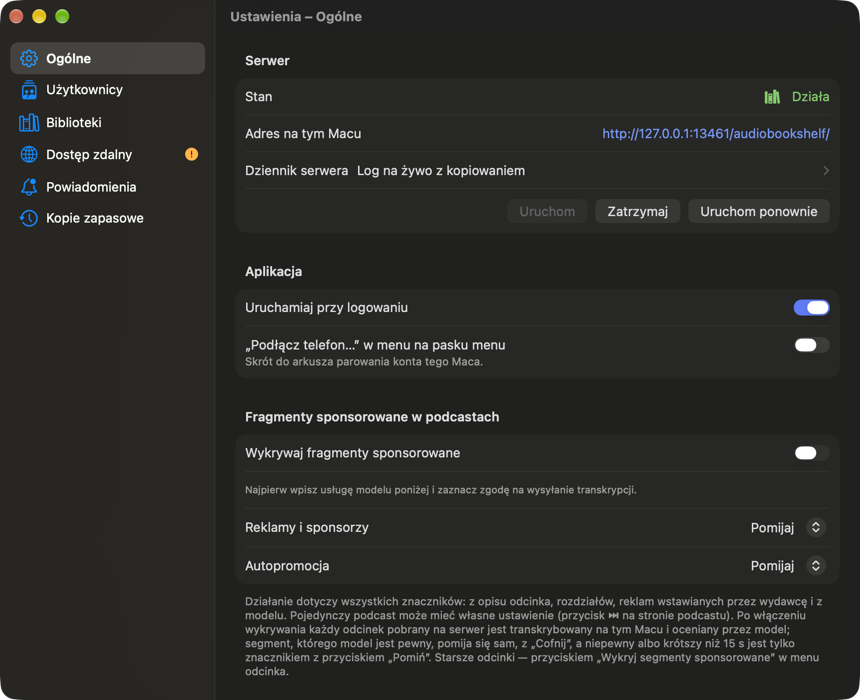
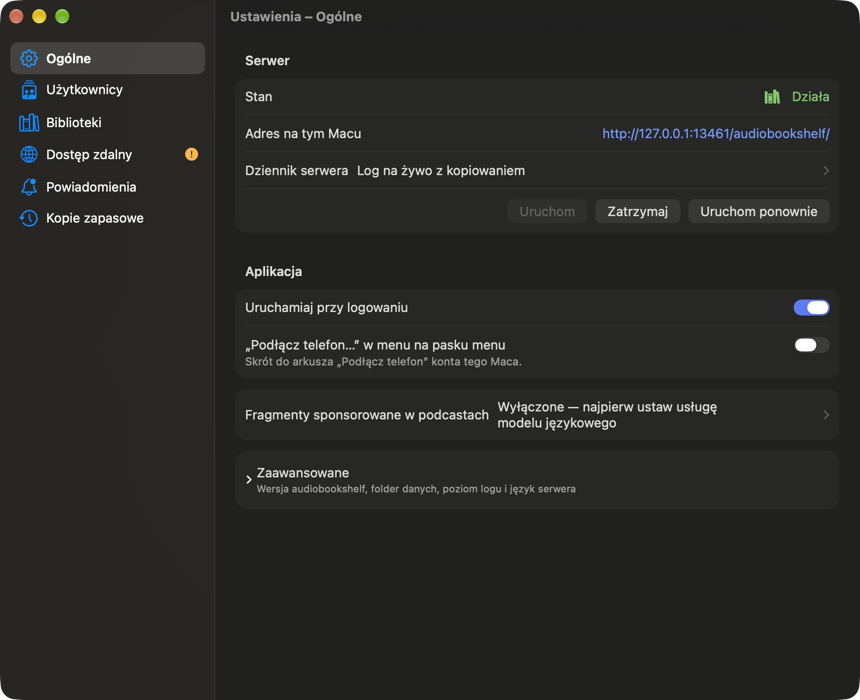
Ustawienia: fragmenty sponsorowane jako podstrona „Ogólnych” i przeciąganie kolejności bibliotek
- „Ogólne” mają wiersz ze stanem wykrywania; sekcje 13b bez zmian w logice na osobnej podstronie
- wiersze „Bibliotek” da się przeciągać na miejsce innej biblioteki (draggable/dropDestination), z linią miejsca upuszczenia
- sprawdzone prawdziwym przeciągnięciem myszą na testowej kopii; część 15 planu, README, ROADMAP, zrzuty

diff --git a/AudiobookSwift/AudiobookSwift/UI/Settings/SettingsPages.swift b/AudiobookSwift/AudiobookSwift/UI/Settings/SettingsPages.swift
@@ -1,7 +1,7 @@
 import AudiobookshelfKit
 import SwiftUI
 
-/// Strona „Biblioteki” (etap 4 planu): lista bibliotek (wiersz → podstrona), dodawanie, polskie źródła i własni dostawcy metadanych, a pod „Zaawansowane” wspólne
+/// Strona „Biblioteki” (etap 4 planu): lista bibliotek (wiersz → podstrona, przeciąganie zmienia kolejność), dodawanie, polskie źródła i własni dostawcy metadanych, a pod „Zaawansowane” wspólne
 /// ustawienia skanera, okładek, zapisu w folderach, sortowania i pamięci podręcznej serwera.
 struct LibrariesSettingsPage: View {
     let models: AppModels
@@ -17,7 +17,7 @@ struct LibrariesSettingsPage: View {
             } header: {
                 Text("Biblioteki na serwerze")
             } footer: {
-                Text("Kliknij bibliotekę, aby zmienić jej ustawienia, harmonogram skanu albo ją usunąć. Kolejność bibliotek (ta sama w oknie „Biblioteka”, w telefonie i w web UI) zmienisz na stronie biblioteki w „Zaawansowane”.")
+                Text("Kliknij bibliotekę, aby zmienić jej ustawienia, harmonogram skanu albo ją usunąć. Kolejność (ta sama w oknie „Biblioteka”, w telefonie i w web UI) zmienisz, przeciągając wiersz na miejsce innej biblioteki, albo przyciskami „Wyżej/Niżej” na stronie biblioteki.")
             }
             Section {
                 MetadataSourcesSection(sources: models.metadataSources)
@@ -70,6 +70,7 @@ private struct LibraryListRows: View {
     @Environment(SettingsNavigation.self) private var navigation
     @Environment(\.openWindow) private var openWindow
     @State private var error: String?
+    @State private var dropTarget: String?
 
     private var account: ServerAccount { models.account }
     private var tasks: LibraryTasks { models.libraryTasks }
@@ -106,6 +107,22 @@ private struct LibraryListRows: View {
         }
         ForEach(account.libraries) { library in
             row(library)
+                // Przeciąganie zmienia kolejność: upuszczona biblioteka zajmuje miejsce tej, na którą ją upuszczono.
+                .draggable(LibraryDrag.payload(library.id)) {
+                    Label(library.name, systemImage: library.mediaType == "podcast" ? "antenna.radiowaves.left.and.right" : "books.vertical")
+                        .padding(6)
+                }
+                .dropDestination(for: String.self) { items, _ in
+                    guard let dragged = items.first.flatMap(LibraryDrag.id(from:)) else { return false }
+                    return move(dragged, to: library.id)
+                } isTargeted: { targeted in
+                    if targeted { dropTarget = library.id } else if dropTarget == library.id { dropTarget = nil }
+                }
+                .overlay(alignment: .top) {
+                    if dropTarget == library.id {
+                        Rectangle().fill(Color.accentColor).frame(height: 2).offset(y: -5)
+                    }
+                }
         }
         if let error {
             Label(error, systemImage: "xmark.octagon")
@@ -181,6 +198,23 @@ private struct LibraryListRows: View {
         return folders.isEmpty ? kind : "\(kind) · \(folders)"
     }
 
+    /// Przenosi bibliotekę `dragged` na miejsce `target` i zapisuje nową kolejność na serwerze.
+    private func move(_ dragged: String, to target: String) -> Bool {
+        var ids = account.libraries.map(\.id)
+        guard dragged != target, let from = ids.firstIndex(of: dragged), let to = ids.firstIndex(of: target) else { return false }
+        ids.remove(at: from)
+        ids.insert(dragged, at: to)
+        error = nil
+        Task {
+            do {
+                try await account.reorderLibraries(ids)
+            } catch {
+                self.error = "Nie udało się zmienić kolejności bibliotek: \(error.localizedDescription)"
+            }
+        }
+        return true
+    }
+
     private func add(_ kind: ServerAccount.LibraryKind) {
         Task {
             guard let folder = await chooseLibraryFolder(for: kind) else { return }
@@ -191,5 +225,15 @@ private struct LibraryListRows: View {
     private func reconnect() {
         guard let environment = models.supervisor.environment, models.supervisor.state == .running else { return }
         Task { await account.connect(environment: environment) }
+    }
+}
+
+/// Przeciągana biblioteka jako tekst z przedrostkiem — upuszczenie zwykłego tekstu (np. z innej
+/// aplikacji) nie zmienia kolejności.
+enum LibraryDrag {
+    static let prefix = "abswift-library:"
+    static func payload(_ id: String) -> String { prefix + id }
+    static func id(from text: String) -> String? {
+        text.hasPrefix(prefix) ? String(text.dropFirst(prefix.count)) : nil
     }
 }

diff --git a/AudiobookSwift/AudiobookSwift/UI/Settings/GeneralSettingsPage.swift b/AudiobookSwift/AudiobookSwift/UI/Settings/GeneralSettingsPage.swift
@@ -1,7 +1,7 @@
 import SwiftUI
 
 /// Ogólne (etap 5 planu): stan i sterowanie serwerem z błędem startu, adres, dziennik serwera (podstrona),
-/// start przy logowaniu, wykrywanie fragmentów sponsorowanych, a pod „Zaawansowane” wersja audiobookshelf,
+/// start przy logowaniu, wiersz do podstrony „Fragmenty sponsorowane”, a pod „Zaawansowane” wersja audiobookshelf,
 /// folder danych, poziom logu i język serwera. Przy błędzie startu aplikacja otwiera tę stronę sama.
 struct GeneralSettingsPage: View {
     let models: AppModels
@@ -15,11 +15,17 @@ struct GeneralSettingsPage: View {
         SettingsForm {
             serverSection
             loginItemSection
-            SponsorDetectionSection(dataRoot: supervisor.dataRoot)
+            Section {
+                NavigationLink(value: SettingsDestination.sponsorDetection) {
+                    Text("Fragmenty sponsorowane w podcastach")
+                    Text(sponsorSummary)
+                }
+            }
             AdvancedSection(summary: "Wersja audiobookshelf, folder danych, poziom logu i język serwera") {
                 advancedRows
             }
         }
+        .onAppear { if let dataRoot = supervisor.dataRoot { SponsorDetectionStore.shared.open(dataRoot: dataRoot) } }
     }
 
     // MARK: Serwer
@@ -54,6 +60,15 @@ struct GeneralSettingsPage: View {
                     .disabled(!supervisor.state.canStop)
             }
         }
+    }
+
+    /// Stan wykrywania w jednym zdaniu (pod wierszem prowadzącym do podstrony).
+    private var sponsorSummary: String {
+        let settings = SponsorDetectionStore.shared.settings
+        if settings.enabled { return "Włączone — usługa modelu ustawiona" }
+        if !settings.isConfigured { return "Wyłączone — najpierw ustaw usługę modelu językowego" }
+        if !settings.hasConsent { return "Wyłączone — brak zgody na wysyłanie transkrypcji" }
+        return "Wyłączone"
     }
 
     // MARK: Zaawansowane

diff --git a/AudiobookSwift/AudiobookSwift/UI/Settings/SettingsWindow.swift b/AudiobookSwift/AudiobookSwift/UI/Settings/SettingsWindow.swift
@@ -123,6 +123,8 @@ enum SettingsDestination: Hashable, Codable {
     case root
     /// Dziennik serwera (Ogólne › Dziennik serwera).
     case serverLog
+    /// Fragmenty sponsorowane w podcastach i usługa modelu językowego (Ogólne › Fragmenty sponsorowane, etap 13b).
+    case sponsorDetection
     /// Historia słuchania (Użytkownicy › „Historia słuchania wszystkich…”, albo jednej osoby z jej profilu).
     case history(userID: String?)
     /// Biblioteka (Biblioteki › biblioteka).
@@ -132,7 +134,7 @@ enum SettingsDestination: Hashable, Codable {
     var page: SettingsPage {
         switch self {
         case .user, .root, .history: .users
-        case .serverLog: .general
+        case .serverLog, .sponsorDetection: .general
         case .library: .libraries
         }
     }
@@ -144,6 +146,9 @@ enum SettingsDestination: Hashable, Codable {
         case .root: RootProfilePage(models: models)
         case .library(let id): LibraryPage(models: models, libraryID: id)
         case .serverLog: ServerLogPage(models: models)
+        case .sponsorDetection:
+            SettingsForm { SponsorDetectionSection(dataRoot: models.supervisor.dataRoot) }
+                .navigationSubtitle("Fragmenty sponsorowane")
         case .history(let userID): ListeningHistoryPage(models: models, userID: userID)
         }
     }

diff --git a/AudiobookSwift/AudiobookSwift/UI/Settings/SettingsTour.swift b/AudiobookSwift/AudiobookSwift/UI/Settings/SettingsTour.swift
@@ -70,7 +70,7 @@ enum SettingsTour {
         if models.account.state == .ready, !models.users.hasLoaded { await models.users.load() }
         return models.users.people.map { .user(id: $0.id) } + [.root, .history(userID: nil)]
             + models.users.people.prefix(1).map { .history(userID: $0.id) }
-            + models.account.libraries.map { .library(id: $0.id) } + [.serverLog]
+            + models.account.libraries.map { .library(id: $0.id) } + [.serverLog, .sponsorDetection]
     }
 
     private static func log(_ text: String) {
@@ -87,6 +87,7 @@ extension SettingsDestination {
         case .root: "root"
         case .serverLog: "serverLog"
         case .library: "library"
+        case .sponsorDetection: "sponsorDetection"
         case .history(let userID): userID == nil ? "history-all" : "history-user"
         }
     }

diff --git a/AudiobookSwift/AudiobookSwift/Listening/Skip/SponsorDetectionSection.swift b/AudiobookSwift/AudiobookSwift/Listening/Skip/SponsorDetectionSection.swift
@@ -5,7 +5,7 @@ import SwiftUI
 
 /// Ustawienia → Ogólne → „Fragmenty sponsorowane w podcastach” (etap 13b): domyślne działanie dla
 /// kategorii, usługa modelu (adres, model, klucz w pęku kluczy), zgoda na wysyłanie transkrypcji
-/// i „Wykrywaj fragmenty sponsorowane”. Samodzielna sekcja — wpięta jednym wierszem w stronę „Ogólne”.
+/// i „Wykrywaj fragmenty sponsorowane”. Samodzielne sekcje — od etapu 6 planu ustawień podstrona „Ogólnych” (`SettingsDestination.sponsorDetection`).
 struct SponsorDetectionSection: View {
     let dataRoot: URL?
 

diff --git a/AudiobookSwift/AudiobookSwift/UI/Settings/LibraryPage.swift b/AudiobookSwift/AudiobookSwift/UI/Settings/LibraryPage.swift
@@ -285,7 +285,7 @@ struct LibraryPage: View {
                 .fixedSize()
                 .disabled(reordering)
             }
-            .help("Kolejność bibliotek — ta sama w oknie „Biblioteka”, w telefonie i w web UI.")
+            .help("Kolejność bibliotek — ta sama w oknie „Biblioteka”, w telefonie i w web UI. Na liście bibliotek można też przeciągać wiersze.")
         }
     }
 

diff --git a/README.md b/README.md
@@ -28,7 +28,7 @@ W Xcode uruchom schemat `AudiobookSwift`. Aplikacja działa jako ikona książek
 - **Pierwsze uruchomienie.** Na czystym serwerze aplikacja sama zakłada konto `root` z losowym hasłem zapisanym w pęku kluczy. Gdy serwer nie ma biblioteki, otwiera się ekran powitalny z przyciskiem wyboru folderu.
 - **Dwa konta.** `root` służy tylko do obsługi serwera (biblioteki, użytkownicy, edycja pozycji w oknie „Biblioteka”). Do słuchania jest wymagane zwykłe konto użytkownika, bez uprawnień administratora — formularz w oknie biblioteki i kafel „Utwórz konto tego Maca” w Ustawieniach → Użytkownicy (nazwa; hasło opcjonalne, puste = losowe w pęku kluczy; podanie hasła istniejącego zwykłego konta je podpina). Okno „Biblioteka” (i web UI słuchacza) używa tego konta („konto tego Maca”), a telefon podłączony do tego konta ma ten sam postęp słuchania. Inne osoby mogą mieć własne konta i własne telefony. **„Zarządzanie serwerem (web UI)…”** (w menu po przytrzymaniu Option, zamiast „Ustawień…”) przełącza okno (z tytułem „Zarządzanie serwerem” zamiast „Biblioteka”) na konto root w sesji trzymanej tylko w pamięci; „Wróć do słuchania” albo zamknięcie okna kończy ten tryb.
 - **Dostęp zdalny** (ustawienia, dawne „Udostępnianie”) — przełącznik „Udostępniaj serwer w sieci domowej” (domyślnie wyłączony) z adresami do skopiowania, wybór „Dostęp spoza domu” (brak / własny adres / Cloudflare Tunnel) i skrót do „Kodu z adresami”. Telefony i dane logowania do innych aplikacji (adres, nazwa, hasło) są w profilu osoby na stronie „Użytkownicy”. Zob. niżej.
-- **Ustawienia** (⌘, w menu): okno z paskiem bocznym i stronami: **Ogólne** (stan i sterowanie serwerem, adres, „Dziennik serwera” na żywo z kopiowaniem jako podstrona, start przy logowaniu, fragmenty sponsorowane; pod „Zaawansowane” wersja audiobookshelf, folder danych, poziom logu i język serwera), **Biblioteki** (lista ze „Skanuj” i wynikiem skanu, „Dodaj audiobooki…” i „Dodaj podcasty…” — typu biblioteki nie da się później zmienić, więc wybiera się go przy dodawaniu; podstrona każdej biblioteki; polskie źródła i własni dostawcy metadanych; pod „Zaawansowane” wspólne ustawienia skanera i pamięci podręcznej), **Użytkownicy** (siatka profili osób z telefonami, hasłem, rolą i dostępem, „słucha teraz” na kaflu, historia słuchania; konto root osobno — zob. „Ustawienia: nowy układ”), **Kopie zapasowe** (zob. „Administracja serwera”), **Dostęp zdalny** (sieć domowa, dostęp spoza domu, tunel). Strona, która wymaga działania, ma pomarańczowy znak na pasku bocznym. Okno pamięta ostatnią stronę także po ponownym uruchomieniu aplikacji. Gdy serwer nie wstanie, okno otwiera się samo na „Ogólne” z czytelnym błędem (np. zajęty port 13378).
+- **Ustawienia** (⌘, w menu): okno z paskiem bocznym i stronami: **Ogólne** (stan i sterowanie serwerem, adres, „Dziennik serwera” na żywo z kopiowaniem jako podstrona, start przy logowaniu, fragmenty sponsorowane; pod „Zaawansowane” wersja audiobookshelf, folder danych, poziom logu i język serwera), **Biblioteki** (lista ze „Skanuj” i wynikiem skanu, kolejność przeciąganiem wierszy, „Dodaj audiobooki…” i „Dodaj podcasty…” — typu biblioteki nie da się później zmienić, więc wybiera się go przy dodawaniu; podstrona każdej biblioteki; polskie źródła i własni dostawcy metadanych; pod „Zaawansowane” wspólne ustawienia skanera i pamięci podręcznej), **Użytkownicy** (siatka profili osób z telefonami, hasłem, rolą i dostępem, „słucha teraz” na kaflu, historia słuchania; konto root osobno — zob. „Ustawienia: nowy układ”), **Kopie zapasowe** (zob. „Administracja serwera”), **Dostęp zdalny** (sieć domowa, dostęp spoza domu, tunel). Strona, która wymaga działania, ma pomarańczowy znak na pasku bocznym. Okno pamięta ostatnią stronę także po ponownym uruchomieniu aplikacji. Gdy serwer nie wstanie, okno otwiera się samo na „Ogólne” z czytelnym błędem (np. zajęty port 13378).
 - **Uruchamiaj przy logowaniu** — przełącznik w menu i na podstronie „Ogólne” (`SMAppService.mainApp`); odczytuje stan z systemu, więc zmiana w Ustawieniach systemowych → Ogólne → Rzeczy otwierane podczas logowania też jest widoczna.
 - Jeśli serwer ma już konto root, a w pęku kluczy nie ma (aktualnego) hasła — np. folder danych zainicjalizowany wcześniej w web UI albo hasło zmienione w web UI — strona „Administrator serwera” w Ustawieniach → Użytkownicy (i „Biblioteki”) prosi o nie i zapisuje je w pęku kluczy; inne strony pokazują baner z przyciskiem do niej.
 - **Okna i Dock.** Gdy otwarte jest jakiekolwiek okno aplikacji (biblioteka, zarządzanie serwerem, ustawienia, powitanie, „O programie”, także zminimalizowane), aplikacja ma ikonę w Docku i zwykłe menu główne (m.in. Ustawienia… ⌘,, Zamknij ⌘W, Edycja, Okno); po zamknięciu ostatniego okna ikona znika. Kliknięcie ikony wysuwa okna (i przywraca zminimalizowane). Reguła jest ogólna (`App/DockIcon.swift`): liczy się każde zwykłe okno z paskiem tytułu, bez listy okien.
@@ -251,10 +251,10 @@ Zrzuty po etapie 6 (testowa kopia, zmyślone konta i adresy; więcej w części 
   4. Zapisuje nowe losowe hasło w pęku kluczy, usuwa znacznik i uruchamia serwer.
 
   Przy błędzie baza wraca z kopii, a serwer startuje jak wcześniej. Po przerwaniu (np. zamknięciu aplikacji) następny start dokańcza reset, jeśli hasło z pęku kluczy pasuje do bazy, a w przeciwnym razie cofa go z kopii. Inne konta, sesje i klucze API (telefony) działają dalej, bo sekret tokenów się nie zmienia. Do testów przerwania jest argument `-ABSRootResetPause before|after`.
-- **Ogólne** (etap 5 nowego układu, dawne „Ogólne”, „Log serwera” i reszta „Ustawień serwera”): serwer (stan, błąd startu z ostatnimi wierszami logu, adres, Uruchom / Zatrzymaj / Uruchom ponownie), wiersz „Dziennik serwera” → podstrona z logiem na żywo, „Przewijaj automatycznie”, „Kopiuj log” i „Pokaż plik logu w Finderze”; aplikacja (start przy logowaniu); fragmenty sponsorowane (etap 13b); pod „Zaawansowane” wersja audiobookshelf, folder danych z „Pokaż w Finderze”, poziom logu i język serwera. Przy błędzie startu okno nadal otwiera się samo na „Ogólnych”.
+- **Ogólne** (etap 5 nowego układu, dawne „Ogólne”, „Log serwera” i reszta „Ustawień serwera”): serwer (stan, błąd startu z ostatnimi wierszami logu, adres, Uruchom / Zatrzymaj / Uruchom ponownie), wiersz „Dziennik serwera” → podstrona z logiem na żywo, „Przewijaj automatycznie”, „Kopiuj log” i „Pokaż plik logu w Finderze”; aplikacja (start przy logowaniu); wiersz „Fragmenty sponsorowane w podcastach” → podstrona z ustawieniami etapu 13b; pod „Zaawansowane” wersja audiobookshelf, folder danych z „Pokaż w Finderze”, poziom logu i język serwera. Przy błędzie startu okno nadal otwiera się samo na „Ogólnych”.
 - **Historia słuchania i „słucha teraz”** (etap 5, dawna „Aktywność”): pod kaflem roota wiersz „Historia słuchania wszystkich” (otwarte sesje z „Zamknij”, historia z filtrem osoby, szczegóły, usuwanie), na profilu „Historia słuchania” tej osoby. Kafel i nagłówek profilu pokazują „słucha teraz: tytuł” (otwarte sesje, odświeżane co 20 s, gdy strona jest widoczna).
 - **Biblioteki** (etap 4 nowego układu, dawne „Biblioteki”, „Źródła metadanych” i większość „Ustawień serwera”):
-  - lista bibliotek: klik w nazwę albo strzałkę otwiera podstronę, obok „Skanuj”, pod spodem wynik ostatniego skanu;
+  - lista bibliotek: klik w nazwę albo strzałkę otwiera podstronę, obok „Skanuj”, pod spodem wynik ostatniego skanu; kolejność zmienia przeciągnięcie wiersza na miejsce innej biblioteki;
   - „Dodaj audiobooki…” i „Dodaj podcasty…”;
   - **Metadane:** polskie źródła (stan, „Konfiguracja…”, „Wyszukiwarka…”, log) i własni dostawcy;
   - **Zaawansowane** (wspólne dla wszystkich bibliotek): skaner i okładki, obserwator folderów we wszystkich bibliotekach, zapis okładek i `metadata.json` w folderach pozycji, sortowanie z przedrostkami, „Wyczyść…” pamięć podręczną z wyborem „tylko okładki” albo „całą”.
@@ -326,7 +326,7 @@ Zrzuty po etapie 6 (testowa kopia, zmyślone konta i adresy; więcej w części 
   - **Publiczny link** — „Publiczny link…” w menu „Więcej” książki z plikami audio: końcówka (losowa), adres serwera (spoza domu, sieć lokalna, ten Mac), ważność (godzina, doba, tydzień, 30 dni, bez końca), zgoda na pobieranie; podgląd aktywnego linku z kopiowaniem i usunięciem (`POST|DELETE /api/share/mediaitem`, stan z `GET /api/items/:id?include=share`). Stronę odtwarzacza pod linkiem serwuje klient web serwera.
   - **Statystyki biblioteki** — sekcja w pasku bocznym (konto słuchacza, `GET /api/libraries/:id/stats`): pozycje, autorzy, gatunki, łączny czas, rozmiar, pliki audio, najczęstsze gatunki, autorzy z największą liczbą książek, najdłuższe i największe pozycje (z przejściem do autora i pozycji).
   - **Statystyki słuchania konta** — „Statystyki słuchania…” w profilu osoby (Ustawienia → Użytkownicy) (`GET /api/users/:id/listening-stats`): łącznie, dzisiaj, dni słuchania, ostatnie 30 dni, najdłużej słuchane, ostatnie sesje.
-  - **Kolejność bibliotek** — „Wyżej/Niżej” na podstronie biblioteki pod „Zaawansowane” (Ustawienia → Biblioteki → biblioteka) (`POST /api/libraries/order`); ta sama kolejność w oknie „Biblioteka”, telefonie i web UI. Foldery bibliotek — na podstronie biblioteki (wyżej).
+  - **Kolejność bibliotek** — przeciąganie wierszy w Ustawieniach → Biblioteki albo „Wyżej/Niżej” na podstronie biblioteki pod „Zaawansowane” (`POST /api/libraries/order`); ta sama kolejność w oknie „Biblioteka”, telefonie i web UI. Foldery bibliotek — na podstronie biblioteki (wyżej).
   - Folder biblioteki jest zapisywany z rozwiązanymi dowiązaniami (`realpath`): folder wybrany przez dowiązanie dawał wcześniej pusty skan, bo skaner liczy ścieżki od prawdziwej ścieżki plików.
 - **Web UI** zostaje jako wyjście awaryjne, tylko pod Option: „Zarządzanie serwerem (web UI)…” zamiast „Ustawień aplikacji…” i web UI słuchacza zamiast „Otwórz bibliotekę” (menu ikony i menu aplikacji). W aplikacji nie ma już nic, co wymagałoby web UI, poza opcjami działającymi tylko w nim (Chromecast, iframe, CORS, widok półki, format daty). Pomiary i warianty usunięcia okna albo klienta web: `ROADMAP.md`, etap 9 („Okno web UI — pomiary i decyzja”).
 - **Konto.** Słucha się na zwykłym koncie użytkownika (to samo co telefon), na osobnej sesji z refresh tokenem trzymanym tylko w pamięci; access token (godzina) jest odświeżany po 401, a po nieudanym odświeżeniu aplikacja loguje się ponownie hasłem z pęku kluczy. Okno nie używa niczego, co wymaga uprawnień administratora.
@@ -514,7 +514,7 @@ Mac transkrybuje pobrane odcinki podcastów i wysyła tekst do zdalnego modelu z
 
 ### Jak włączyć (Mac)
 
-1. **Ustawienia → Ogólne → „Usługa modelu językowego”.**
+1. **Ustawienia → Ogólne → Fragmenty sponsorowane w podcastach → „Usługa modelu językowego”.**
    - Adres API, np. `https://api.mistral.ai/v1`, `https://generativelanguage.googleapis.com/v1beta/openai` albo `https://api.openai.com/v1`.
    - Model, np. `mistral-small-latest`; podpowiedź w polu: „mały model, np. Mistral Small albo Gemini Flash”.
    - Klucz API, który trafia do pęku kluczy.

diff --git a/docs/ustawienia-nowy-uklad.md b/docs/ustawienia-nowy-uklad.md
@@ -710,10 +710,10 @@ Wariant B nie oszczędza kliknięć: w czterech zadaniach z pięciu jest tak sam
 | NW5 | — (nowe) | Dostęp zdalny › baner pod „Skąd można słuchać” | — |
 | NW6 | — (nowe) | Użytkownicy › kafel i nagłówek profilu | — |
 | NW7 | — (nowe) | Ogólne › Aplikacja | — |
-| NW8 | — (13b) | Ogólne › Fragmenty sponsorowane w podcastach | — |
-| NW9 | — (13a/13b) | Ogólne › Fragmenty sponsorowane w podcastach | — |
-| NW10 | — (13b) | Ogólne › Usługa modelu językowego | — |
-| NW11 | — (13b) | Ogólne › Fragmenty sponsorowane w podcastach | — |
+| NW8 | — (13b) | Ogólne › Fragmenty sponsorowane › (podstrona) | — |
+| NW9 | — (13a/13b) | Ogólne › Fragmenty sponsorowane › (podstrona) | — |
+| NW10 | — (13b) | Ogólne › Fragmenty sponsorowane › Usługa modelu językowego | — |
+| NW11 | — (13b) | Ogólne › Fragmenty sponsorowane › (podstrona) | — |
 | NW12 | — (13a) | bez zmian: strona podcastu i odtwarzacz w oknie „Biblioteka” (jak X3) | — |
 Kontrola kompletności: każdy identyfikator ze spisu (1.3) występuje w tej tabeli dokładnie raz. Sprawdza to skrypt w [`ustawienia-nowy-uklad/sprawdz-tabele.sh`](ustawienia-nowy-uklad/sprawdz-tabele.sh).
 
@@ -1122,7 +1122,7 @@ Do testów w bazie testowej kopii dopisana jest druga biblioteka audiobooków i 
 
 ### Tylko skompilowane albo przejrzane
 
-- **Przeciągania wierszy nie ma.** Pierwsza wersja miała `onMove`, ale w formularzu (`Form` w stylu grouped, wiersze bez `AXRow`) najpewniej nic by nie robiło, a nie dało się tego sprawdzić bez przejęcia myszy. Zamiast obiecywać przeciąganie, kolejność zmienia „Wyżej/Niżej” na podstronie biblioteki (sprawdzone). Przeciąganie zostaje do zrobienia (`draggable`/`dropDestination`) — odstępstwo od B2.
+- **Przeciąganie wierszy** zostało dorobione po etapie 6 (część 15). Pierwsza wersja z `onMove` w formularzu nie była pewna i została usunięta.
 - **Dodawanie biblioteki** z „Dodaj audiobooki…” / „Dodaj podcasty…” nie było klikane (panel wyboru folderu). Kod dodawania się nie zmienił, zmieniły się tylko nazwy przycisków.
 - **Polskie źródła i własny dostawca** nie były włączane ani dodawane. To ten sam kod co na dawnej stronie, w nowym miejscu.
 - **Okno powitalne:** sprawdzone przeglądem zmian, bez uruchomienia. Usunięte są tylko gałęzie dla ustawień.
@@ -1279,8 +1279,30 @@ Atrapy na tym Macu: serwer HTTP udający Apprise (`127.0.0.1:13499`) i serwer SM
 
 ### Znane braki i pytania (etapy 4–6)
 
-- **Przeciąganie bibliotek** (B2) nie jest zrobione; kolejność zmienia „Wyżej/Niżej” na podstronie (część 12).
-- **„Fragmenty sponsorowane” (13b)** zajmują dużo miejsca w „Ogólnych”. Propozycja z części 13: osobna podstrona.
+- **Przeciąganie bibliotek** (B2) dorobione i sprawdzone myszą (część 15).
+- **„Fragmenty sponsorowane” (13b)** są od części 15 osobną podstroną „Ogólnych”.
 - **Zrzuty etapów 1–3** pokazują stary pasek boczny. Można je odświeżyć skryptami z części 10–11.
 - **VoiceOver** nie był słuchany z mową. Etykiety sprawdzone w drzewie dostępności.
+
+## 15. Po etapie 6: fragmenty sponsorowane jako podstrona i przeciąganie bibliotek
+
+Decyzja użytkownika z 2026-11-23: oba punkty otwarte w części 14 zrobić od razu.
+
+- **Fragmenty sponsorowane** (13b): w „Ogólnych” został jeden wiersz „Fragmenty sponsorowane w podcastach” ze stanem w jednym zdaniu (np. „Wyłączone — najpierw ustaw usługę modelu językowego”). Prowadzi do podstrony (`SettingsDestination.sponsorDetection`) z dotychczasowymi sekcjami „Fragmenty sponsorowane w podcastach” i „Usługa modelu językowego”. Logika sekcji (`SponsorDetectionSection`) jest bez zmian. „Zaawansowane” w „Ogólnych” są teraz widoczne bez przewijania.
+- **Przeciąganie bibliotek** (B2):
+  - wiersz na liście „Bibliotek” da się przeciągnąć na miejsce innej biblioteki (`draggable` / `dropDestination`, działa także w formularzu, który nie jest listą);
+  - linia nad wierszem pokazuje miejsce upuszczenia;
+  - kolejność idzie od razu na serwer (`ServerAccount.reorderLibraries`);
+  - przeciągany jest tekst z przedrostkiem `abswift-library:`, więc upuszczenie zwykłego tekstu z innej aplikacji niczego nie zmienia;
+  - „Wyżej/Niżej” na podstronie zostaje dla klawiatury i VoiceOver.
+- **Sprawdzone uruchomieniem** (testowa kopia, prawdziwe przeciągnięcie myszą za zgodą użytkownika):
+  - „Podcasty” przeciągnięte na „lib” dały w bazie kolejność `Podcasty:1 lib:2`;
+  - drugie przeciągnięcie przywróciło `lib:1 Podcasty:2`;
+  - klik w wiersz nadal otwiera podstronę biblioteki;
+  - podstrona fragmentów sponsorowanych otwiera się z „Ogólnych”, a tryb sprawdzający ją odwiedza (`TOUR OK`).
+
+| | Jasny | Ciemny |
+|---|---|---|
+| Ogólne z wierszem fragmentów | ![](ustawienia-nowy-uklad/wdrozenie-png/strona-ogolne-light.png) | ![](ustawienia-nowy-uklad/wdrozenie-png/strona-ogolne-dark.png) |
+| Fragmenty sponsorowane | ![](ustawienia-nowy-uklad/wdrozenie-png/fragmenty-sponsorowane-light.png) | ![](ustawienia-nowy-uklad/wdrozenie-png/fragmenty-sponsorowane-dark.png) |
 

diff --git a/ROADMAP.md b/ROADMAP.md
@@ -95,7 +95,7 @@ Decyzja użytkownika: 13a i 13b od razu.
 
 - **13a. Znaczniki bez modelu — zrobione.** Plik `<odcinek>.skip.json` obok odcinka (serwer dopisuje go do plików pozycji, klienci pobierają przez `GET /api/items/:id/file/:ino`); w pakiecie: format (odcisk pliku, segmenty `start/end/kind/source/confidence/autoSkip`, reklamy wstawione bez położenia, wzmianki, poprawki odporne na ponowne wykrywanie), wykrywanie z opisu (wąskie reguły nagłówków wstawek PL/EN), z rozdziałów (plik, `psc:chapters`, `podcast:chapters`), z różnicy `itunes:duration` i z nagłówka Megaphone (parser własny, położenie tylko dla tego samego zestawu reklam), plan pomijania i pomijanie w `AudiobookPlayer` z „Cofnij”/„Pomiń”. Mac liczy po pobraniu odcinka na serwer i przyciskiem; iOS: znaczniki z serwera, pobrane z odcinkiem (bez sieci) i liczone na telefonie dla odcinków z kanału. Ustawienie per podcast (pomijaj / tylko pokazuj / ignoruj, osobno reklamy i autopromocja; domyślnie pomijanie), edytor segmentów na obu platformach. Szczegóły i wyniki w README. Zostało: poprawki z telefonu na serwer, wspólne ustawienie per podcast między urządzeniami, sprzątanie pliku po usunięciu odcinka, VoiceOver i prawdziwe urządzenie.
 - **13b. Transkrypcja i zdalny klasyfikator na Macu — zrobione.** Ustawienia → Ogólne: adres i model usługi zgodnej z OpenAI, klucz w pęku kluczy, zgoda przypięta do hosta, „Sprawdź połączenie”, „Wykrywaj fragmenty sponsorowane” i domyślne działanie kategorii (podcast może mieć wyjątek). Po pobraniu odcinka na serwer i przyciskiem: kolejka w `SkipController` (plik w folderze danych, punkt kontrolny okien — wznowienie po ponownym uruchomieniu), transkrypcja `DictationTranscriber` z pamięcią podręczną 11a, okna 10 min z 2 min zakładki, wykrywanie instrukcją z rozpoznania (numery wierszy w JSON-ie, z walidacją) i osobne pytanie o kategorię każdego bloku — ocena z kluczem użytkownika (Mistral Small, 6 odcinków): 8/10 trafionych, 0 fałszywych obszarów, kategoria zgodna we wszystkich trafieniach, ponowienia (429/5xx/zerwane połączenie), wstrzymanie kolejki przy odrzuconym kluczu, docięcie granic do ciszy przy słowie, zapis segmentów `model` (format bez zmian, poprawki zostają). Bez dublowania z 13a: niepewny zakres z opisu (tylko znacznik, np. dłuższy niż 3 min) zastępuje pewny segment modelu, a pewny zakres z opisu wygrywa z segmentem modelu (13a i model razem: 8/10 trafionych, 0 fałszywych obszarów). Segment modelu pomija się sam od 15 s długości (próg długości zmierzony na zapisanych odpowiedziach: 0 zamiast 3 fałszywych obszarów przy 7/10 trafieniach). Szczegóły, pomiary i polecenie oceny z kluczem w README. Zostało: ocena na innych modelach i większym zestawie, analiza tylko przy zasilaniu, wspólne domyślne kategorie z iOS.
-- **Nowy układ ustawień (plan `docs/ustawienia-nowy-uklad.md`, wariant B) — zrobione.** Sześć stron zamiast dwunastu: Ogólne (z dziennikiem serwera jako podstroną), Użytkownicy (profile, telefony każdej osoby, root z resetem hasła, historia słuchania, „słucha teraz”), Biblioteki (podstrona biblioteki z zapisem natychmiastowym, metadane, wspólne ustawienia skanera), Dostęp zdalny, Powiadomienia (SMTP w arkuszu), Kopie zapasowe. Wpisy 9f i wyżej opisują dawny układ. Do zrobienia: przeciąganie kolejności bibliotek, wyszukiwanie w oknie ustawień.
+- **Nowy układ ustawień (plan `docs/ustawienia-nowy-uklad.md`, wariant B) — zrobione.** Sześć stron zamiast dwunastu: Ogólne (z dziennikiem serwera jako podstroną), Użytkownicy (profile, telefony każdej osoby, root z resetem hasła, historia słuchania, „słucha teraz”), Biblioteki (podstrona biblioteki z zapisem natychmiastowym, metadane, wspólne ustawienia skanera), Dostęp zdalny, Powiadomienia (SMTP w arkuszu), Kopie zapasowe. Wpisy 9f i wyżej opisują dawny układ. Fragmenty sponsorowane mają podstronę w „Ogólnych”, kolejność bibliotek zmienia się przeciąganiem. Do zrobienia: wyszukiwanie w oknie ustawień.
 - **Później:** odcinki tylko z RSS na iOS poza opisem (analiza na Macu na żądanie albo transkrypcja na telefonie), Parakeet v3 przez FluidAudio (lepsza transkrypcja rozmów), odciski powtarzających się reklam. (Ręczna korekta granic weszła w 13a.)
 - **Ustalenia z użytkownikiem (2026-11-23):**
   - Domyślnie automatyczne pomijanie: kto podał API i włączył „Wykrywaj fragmenty sponsorowane”, oczekuje działania. „Cofnij” i znaczniki zostają.
